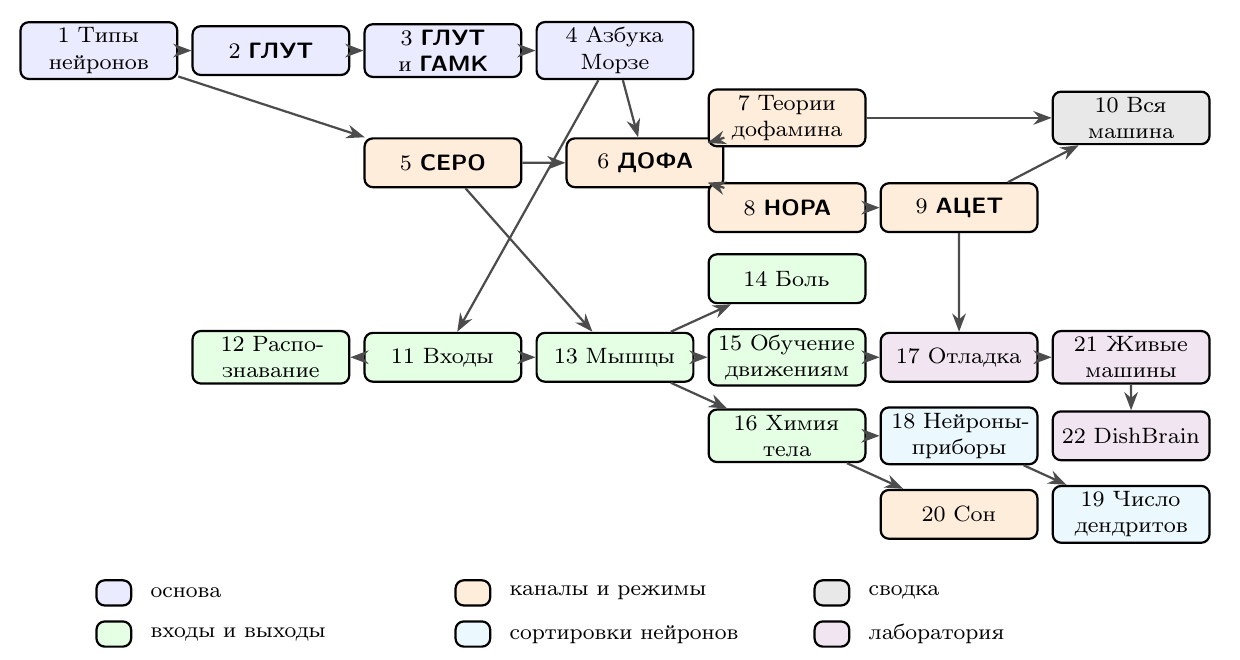
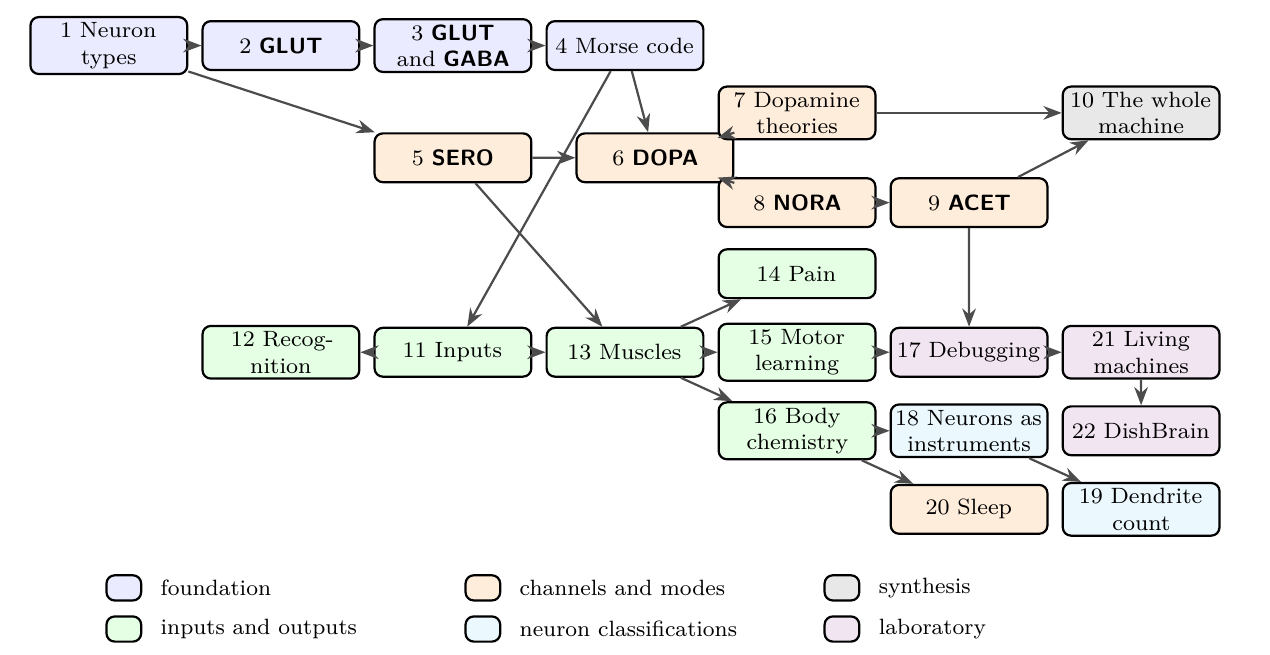
README in English: English paperback cover and chapter map; PDF badges point to the English editions

diff --git a/README.md b/README.md
@@ -9,8 +9,8 @@
 **86 billion processors. About 20 watts. No backprop wires. No datasheet — until now.**
 
 [![Read online](https://img.shields.io/badge/read-online-e4e9ef?style=for-the-badge)](https://kladkogex.github.io/20-watt-computer/read/00.html)
-[![Read the PDF](https://img.shields.io/badge/PDF-249_pages-f5c542?style=for-the-badge)](https://kladkogex.github.io/20-watt-computer/pdf/20-watt-computer-ru.pdf)
-[![Paperback](https://img.shields.io/badge/paperback-90_pages-8fb3ff?style=for-the-badge)](https://kladkogex.github.io/20-watt-computer/pdf/20-watt-computer-ru-paperback.pdf)
+[![Read the PDF](https://img.shields.io/badge/PDF-240_pages-f5c542?style=for-the-badge)](https://kladkogex.github.io/20-watt-computer/pdf/20-watt-computer-en.pdf)
+[![Paperback](https://img.shields.io/badge/paperback-87_pages-8fb3ff?style=for-the-badge)](https://kladkogex.github.io/20-watt-computer/pdf/20-watt-computer-en-paperback.pdf)
 [![Breadboard](https://img.shields.io/badge/play-neuron_breadboard-7ee2a8?style=for-the-badge)](https://kladkogex.github.io/20-watt-computer/breadboard/)
 [![Website](https://img.shields.io/badge/site-kladkogex.github.io-cccccc?style=for-the-badge)](https://kladkogex.github.io/20-watt-computer/)
 
